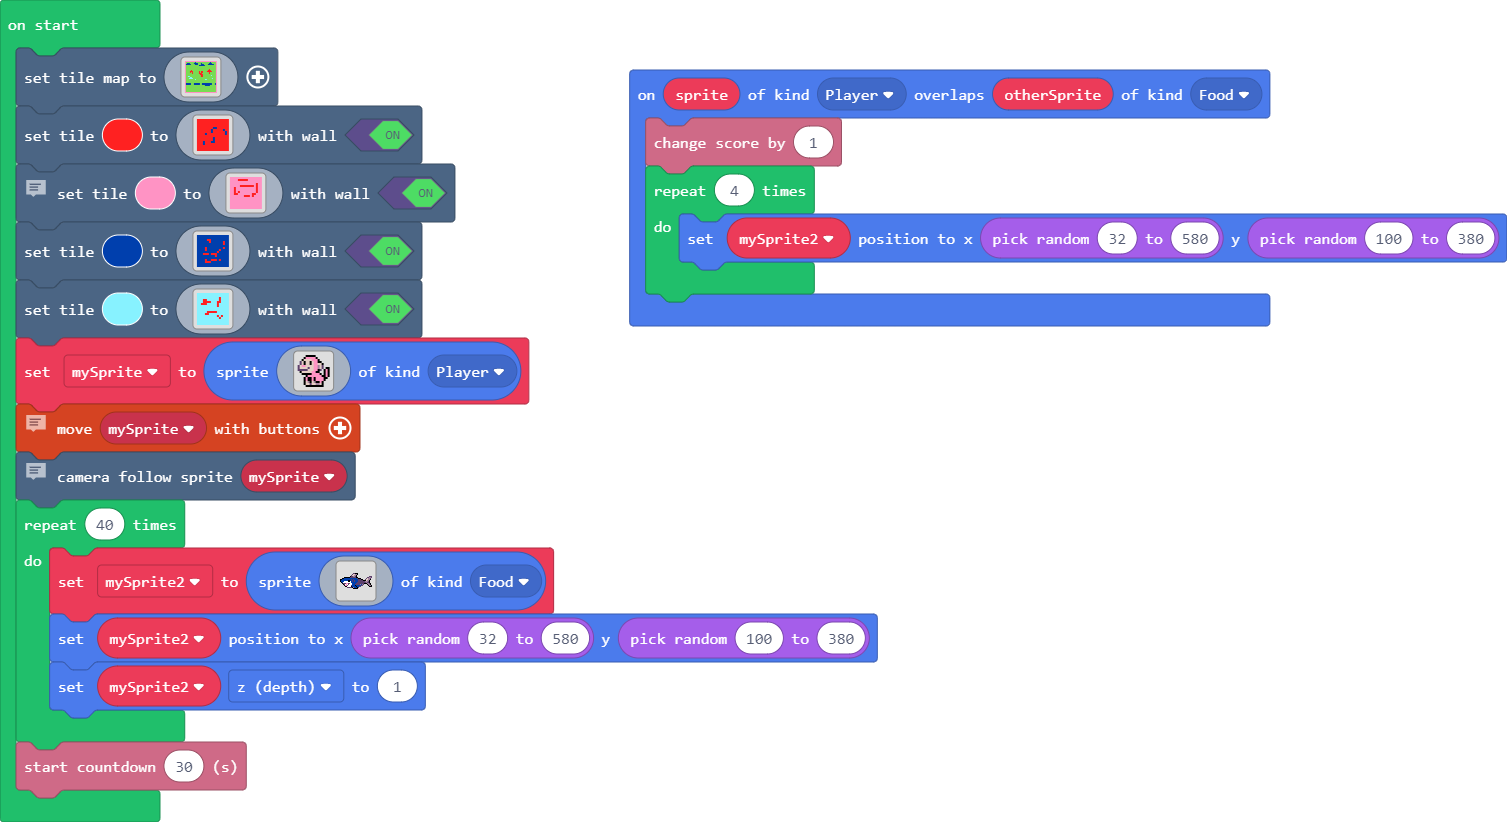
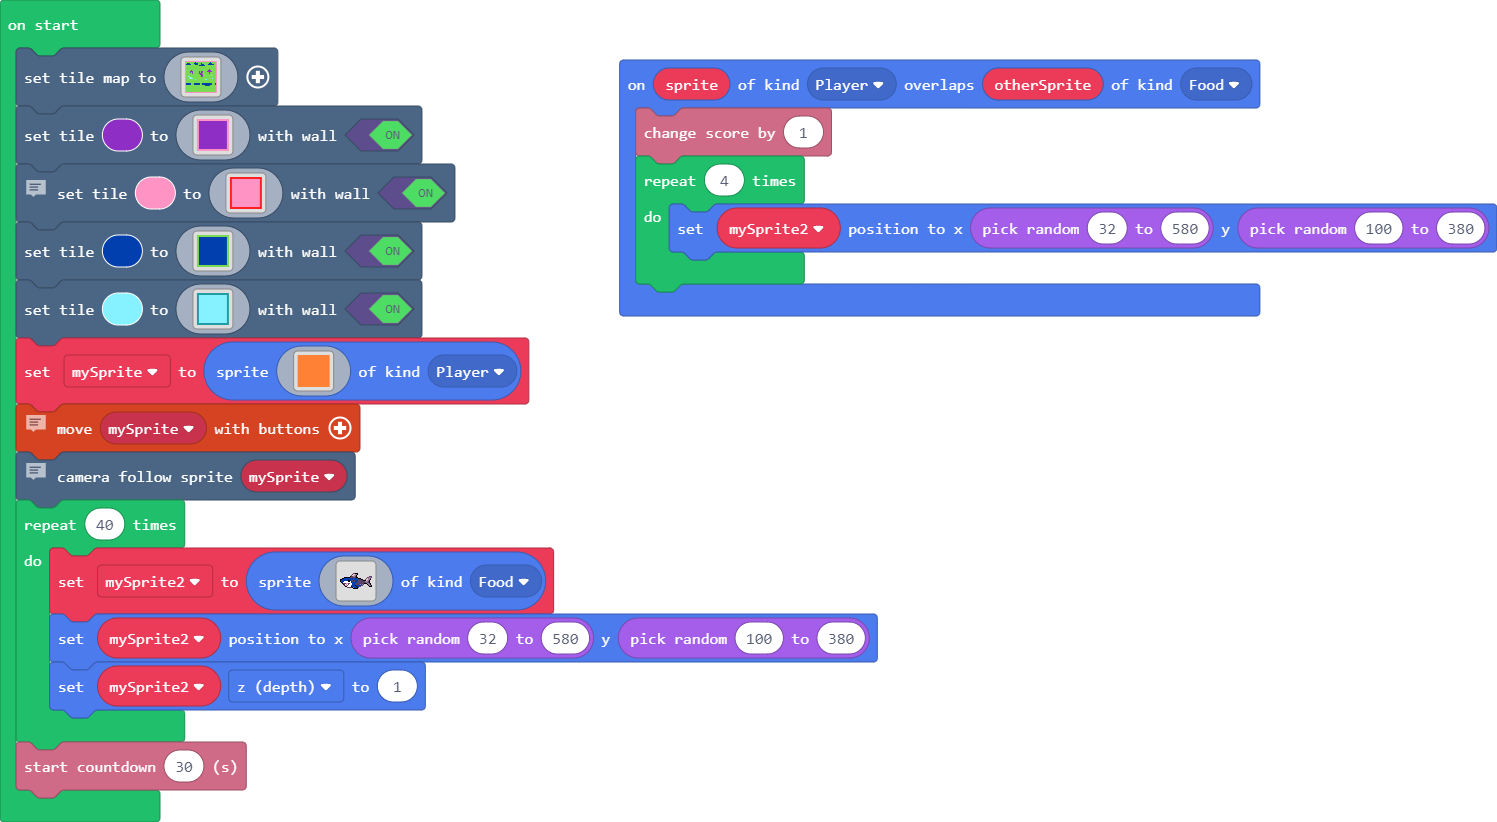
submit maze game

diff --git a/main.ts b/main.ts
@@ -14,14 +14,14 @@ scene.setTileMap(img`
 3 7 7 7 7 7 7 7 7 7 7 7 7 7 7 7 7 7 7 7 7 7 7 7 7 7 7 7 7 7 7 3 
 3 7 7 7 7 7 7 7 7 7 7 7 7 7 7 7 7 7 7 7 7 7 7 7 7 7 7 7 7 7 7 3 
 3 7 7 7 7 7 7 7 7 7 7 7 7 7 7 7 7 7 7 7 7 7 7 7 7 7 7 7 7 7 7 3 
-3 7 7 7 7 7 7 7 7 7 7 7 7 7 7 7 7 7 7 7 7 7 7 7 2 7 7 7 7 7 7 3 
-3 7 7 7 7 7 2 7 7 7 7 7 7 7 7 7 7 7 7 7 7 7 7 2 2 2 7 7 7 7 7 3 
-3 7 7 7 7 2 2 2 7 7 7 7 7 7 2 7 2 2 7 7 7 7 2 2 2 2 2 7 7 7 7 3 
-3 7 7 7 7 2 7 2 7 7 7 7 7 7 2 7 2 2 7 7 7 7 7 7 2 7 7 7 7 7 7 3 
-3 7 7 7 7 7 7 2 7 7 7 7 7 7 2 2 2 7 7 7 7 7 7 7 2 7 7 7 7 7 7 3 
-3 7 7 7 7 7 7 7 7 7 7 7 7 7 7 2 2 2 7 7 7 7 7 7 7 7 7 7 7 7 7 3 
-3 7 7 7 7 7 7 7 7 7 7 7 7 7 7 7 2 2 7 7 7 7 7 7 7 7 9 7 7 7 7 3 
-3 7 7 9 9 7 7 7 7 7 7 7 7 7 7 7 2 2 7 7 7 7 7 7 7 7 7 7 7 7 7 3 
+3 7 7 7 7 7 7 7 7 7 7 7 7 7 7 7 7 7 7 7 7 7 7 7 a 7 7 7 7 7 7 3 
+3 7 7 7 7 7 a 7 7 7 7 7 7 7 7 7 7 7 7 7 7 7 7 a a a 7 7 7 7 7 3 
+3 7 7 7 7 a a a 7 7 7 7 7 7 a 7 a a 7 7 7 7 a a a a a 7 7 7 7 3 
+3 7 7 7 7 a 7 a 7 7 7 7 7 7 a 7 a a 7 7 7 7 7 7 a 7 7 7 7 7 7 3 
+3 7 7 7 7 7 7 a 7 7 7 7 7 7 a a a 7 7 7 7 7 7 7 a 7 7 7 7 7 7 3 
+3 7 7 7 7 7 7 7 7 7 7 7 7 7 7 a a a 7 7 7 7 7 7 7 7 7 7 7 7 7 3 
+3 7 7 7 7 7 7 7 7 7 7 7 7 7 7 7 a a 7 7 7 7 7 7 7 7 9 7 7 7 7 3 
+3 7 7 9 9 7 7 7 7 7 7 7 7 7 7 7 a a 7 7 7 7 7 7 7 7 7 7 7 7 7 3 
 3 7 7 7 7 9 9 7 7 7 7 7 7 7 7 7 7 7 7 7 7 7 7 7 7 7 7 7 7 7 7 3 
 3 7 7 7 9 9 9 9 7 7 7 7 7 7 7 7 7 7 7 7 7 7 7 7 7 7 7 9 7 7 7 3 
 3 7 7 7 7 7 7 7 7 7 9 7 7 7 7 7 7 7 7 7 9 9 7 7 7 7 7 7 7 7 7 3 
@@ -39,96 +39,96 @@ scene.setTileMap(img`
 3 7 7 7 7 7 7 7 7 7 7 7 7 7 7 7 7 7 7 7 7 7 7 7 7 7 7 7 7 7 7 3 
 3 3 3 3 3 3 3 3 3 3 3 3 3 3 3 3 3 3 3 3 3 3 3 3 3 3 3 3 3 3 3 3 
 `)
-scene.setTile(2, img`
-2 2 2 2 2 2 2 2 2 2 2 2 2 2 2 2 
-2 2 2 2 2 2 2 2 2 2 2 2 2 2 2 2 
-2 2 2 2 2 2 2 2 2 2 2 2 2 2 2 2 
-2 2 2 2 2 2 2 2 2 2 2 2 2 2 2 2 
-2 2 2 2 2 2 2 2 8 8 2 2 2 2 2 2 
-2 2 2 2 2 2 2 8 2 2 2 2 2 8 2 2 
-2 2 2 2 2 2 2 8 2 2 2 2 2 2 8 2 
-2 2 2 2 8 2 2 2 2 2 2 2 2 2 8 2 
-2 2 2 2 2 2 2 2 2 2 2 2 2 2 2 2 
-2 2 2 2 2 2 2 2 8 2 2 2 2 2 2 2 
-2 2 2 2 2 2 2 2 8 2 2 2 2 2 2 2 
-2 2 2 8 2 2 2 8 8 2 2 2 2 2 2 2 
-2 2 2 8 2 2 2 2 2 2 2 2 2 2 2 2 
-2 2 2 2 2 2 2 2 2 2 2 2 2 2 2 2 
-2 2 2 2 2 2 2 2 2 2 2 2 2 2 2 2 
-2 2 2 2 2 2 2 2 2 2 2 2 2 2 2 2 
+scene.setTile(10, img`
+3 3 3 3 3 3 3 3 3 3 3 3 3 3 3 3 
+3 a a a a a a a a a a a a a a 3 
+3 a a a a a a a a a a a a a a 3 
+3 a a a a a a a a a a a a a a 3 
+3 a a a a a a a a a a a a a a 3 
+3 a a a a a a a a a a a a a a 3 
+3 a a a a a a a a a a a a a a 3 
+3 a a a a a a a a a a a a a a 3 
+3 a a a a a a a a a a a a a a 3 
+3 a a a a a a a a a a a a a a 3 
+3 a a a a a a a a a a a a a a 3 
+3 a a a a a a a a a a a a a a 3 
+3 a a a a a a a a a a a a a a 3 
+3 a a a a a a a a a a a a a a 3 
+3 a a a a a a a a a a a a a a 3 
+3 3 3 3 3 3 3 3 3 3 3 3 3 3 3 3 
 `, true)
 // for player to not move through wall
 scene.setTile(3, img`
-3 3 3 3 3 3 3 3 3 3 3 3 3 3 3 3 
-3 3 3 3 2 2 2 2 2 3 3 3 3 3 3 3 
-3 3 3 3 3 3 3 3 3 3 3 3 3 3 3 3 
-3 3 3 3 3 3 3 3 3 3 3 3 3 2 3 3 
-3 3 3 3 3 2 2 2 2 2 2 2 3 2 3 3 
-3 3 2 3 3 3 3 3 3 3 3 3 3 2 3 3 
-3 3 2 3 3 3 3 3 3 3 3 3 3 2 3 3 
-3 3 2 3 2 3 3 3 3 3 3 3 3 2 3 3 
-3 3 2 2 3 3 3 3 3 3 3 2 2 3 3 3 
-3 3 3 3 3 3 3 2 2 2 3 2 3 3 3 3 
-3 3 3 3 3 3 3 3 3 3 3 3 3 3 3 3 
-3 3 3 3 3 3 3 3 3 3 3 3 3 3 3 3 
-3 3 3 3 3 3 3 3 3 3 3 3 3 3 3 3 
-3 3 3 3 3 3 3 3 3 3 3 3 3 3 3 3 
-3 3 3 3 3 3 3 3 3 3 3 3 3 3 3 3 
-3 3 3 3 3 3 3 3 3 3 3 3 3 3 3 3 
+2 2 2 2 2 2 2 2 2 2 2 2 2 2 2 2 
+2 3 3 3 3 3 3 3 3 3 3 3 3 3 3 2 
+2 3 3 3 3 3 3 3 3 3 3 3 3 3 3 2 
+2 3 3 3 3 3 3 3 3 3 3 3 3 3 3 2 
+2 3 3 3 3 3 3 3 3 3 3 3 3 3 3 2 
+2 3 3 3 3 3 3 3 3 3 3 3 3 3 3 2 
+2 3 3 3 3 3 3 3 3 3 3 3 3 3 3 2 
+2 3 3 3 3 3 3 3 3 3 3 3 3 3 3 2 
+2 3 3 3 3 3 3 3 3 3 3 3 3 3 3 2 
+2 3 3 3 3 3 3 3 3 3 3 3 3 3 3 2 
+2 3 3 3 3 3 3 3 3 3 3 3 3 3 3 2 
+2 3 3 3 3 3 3 3 3 3 3 3 3 3 3 2 
+2 3 3 3 3 3 3 3 3 3 3 3 3 3 3 2 
+2 3 3 3 3 3 3 3 3 3 3 3 3 3 3 2 
+2 3 3 3 3 3 3 3 3 3 3 3 3 3 3 2 
+2 2 2 2 2 2 2 2 2 2 2 2 2 2 2 2 
 `, true)
 scene.setTile(8, img`
-8 8 8 8 8 8 8 8 8 8 8 8 8 8 8 8 
-8 8 8 8 8 8 8 8 8 8 8 8 8 8 8 8 
-8 8 8 8 8 2 2 8 8 8 8 8 8 8 8 8 
-8 8 8 8 8 8 2 8 8 8 8 8 8 2 8 8 
-8 8 8 8 8 8 8 8 8 8 8 8 8 2 8 8 
-8 8 8 8 8 8 8 8 8 8 8 8 8 8 8 8 
-8 8 8 8 2 8 8 8 8 8 8 8 8 2 8 8 
-8 8 8 8 2 8 8 8 8 8 8 2 8 8 8 8 
-8 8 8 8 8 8 8 8 8 8 2 8 8 8 8 8 
-8 8 8 2 2 2 8 2 2 2 8 8 8 8 8 8 
-8 8 8 8 8 8 8 8 8 2 8 8 8 8 8 8 
-8 8 8 8 8 8 8 8 8 8 8 8 8 8 8 8 
-8 8 8 8 2 8 8 2 2 2 8 2 8 8 8 8 
-8 8 8 8 2 2 2 8 8 8 8 8 8 8 8 8 
-8 8 8 8 8 8 8 8 8 8 8 8 8 8 8 8 
-8 8 8 8 8 8 8 8 8 8 8 8 8 8 8 8 
+7 7 7 7 7 7 7 7 7 7 7 7 7 7 7 7 
+7 8 8 8 8 8 8 8 8 8 8 8 8 8 8 7 
+7 8 8 8 8 8 8 8 8 8 8 8 8 8 8 7 
+7 8 8 8 8 8 8 8 8 8 8 8 8 8 8 7 
+7 8 8 8 8 8 8 8 8 8 8 8 8 8 8 7 
+7 8 8 8 8 8 8 8 8 8 8 8 8 8 8 7 
+7 8 8 8 8 8 8 8 8 8 8 8 8 8 8 7 
+7 8 8 8 8 8 8 8 8 8 8 8 8 8 8 7 
+7 8 8 8 8 8 8 8 8 8 8 8 8 8 8 7 
+7 8 8 8 8 8 8 8 8 8 8 8 8 8 8 7 
+7 8 8 8 8 8 8 8 8 8 8 8 8 8 8 7 
+7 8 8 8 8 8 8 8 8 8 8 8 8 8 8 7 
+7 8 8 8 8 8 8 8 8 8 8 8 8 8 8 7 
+7 8 8 8 8 8 8 8 8 8 8 8 8 8 8 7 
+7 8 8 8 8 8 8 8 8 8 8 8 8 8 8 7 
+7 7 7 7 7 7 7 7 7 7 7 7 7 7 7 7 
 `, true)
 scene.setTile(9, img`
-9 9 9 9 9 9 9 9 9 9 9 9 9 9 9 9 
-9 9 9 9 9 9 9 9 9 9 9 9 9 9 9 9 
-9 9 9 9 9 9 9 9 9 9 9 2 9 9 9 9 
-9 9 9 2 2 9 9 9 9 9 9 2 9 9 9 9 
-9 9 9 2 2 2 2 9 9 9 2 2 9 9 9 9 
-9 9 2 2 2 9 9 9 9 9 2 9 9 9 9 9 
-9 9 9 9 9 9 9 9 9 9 2 9 9 9 9 9 
-9 9 9 9 9 9 9 9 9 9 9 9 9 9 9 9 
-9 9 9 9 9 9 9 9 9 9 9 9 9 9 9 9 
-9 9 9 9 9 2 2 2 2 2 9 9 9 9 9 9 
-9 9 9 9 2 2 9 9 9 9 9 9 9 9 9 9 
-9 9 9 9 9 9 9 9 9 9 2 9 2 9 9 9 
-9 9 9 9 9 9 9 9 9 9 9 2 9 9 9 9 
-9 9 9 9 9 9 9 9 9 9 9 9 9 9 9 9 
-9 9 9 9 9 9 9 9 9 9 9 9 9 9 9 9 
-9 9 9 9 9 9 9 9 9 9 9 9 9 9 9 9 
+6 6 6 6 6 6 6 6 6 6 6 6 6 6 6 6 
+6 9 9 9 9 9 9 9 9 9 9 9 9 9 9 6 
+6 9 9 9 9 9 9 9 9 9 9 9 9 9 9 6 
+6 9 9 9 9 9 9 9 9 9 9 9 9 9 9 6 
+6 9 9 9 9 9 9 9 9 9 9 9 9 9 9 6 
+6 9 9 9 9 9 9 9 9 9 9 9 9 9 9 6 
+6 9 9 9 9 9 9 9 9 9 9 9 9 9 9 6 
+6 9 9 9 9 9 9 9 9 9 9 9 9 9 9 6 
+6 9 9 9 9 9 9 9 9 9 9 9 9 9 9 6 
+6 9 9 9 9 9 9 9 9 9 9 9 9 9 9 6 
+6 9 9 9 9 9 9 9 9 9 9 9 9 9 9 6 
+6 9 9 9 9 9 9 9 9 9 9 9 9 9 9 6 
+6 9 9 9 9 9 9 9 9 9 9 9 9 9 9 6 
+6 9 9 9 9 9 9 9 9 9 9 9 9 9 9 6 
+6 9 9 9 9 9 9 9 9 9 9 9 9 9 9 6 
+6 6 6 6 6 6 6 6 6 6 6 6 6 6 6 6 
 `, true)
 let mySprite = sprites.create(img`
-. . . . f f f f f . . . . . . . 
-. . . f 3 3 3 3 3 f . . . . . . 
-. . f d d d d 3 3 3 f . . . . . 
-. c d f d d f d 3 3 f f . . . . 
-. c d f d d f d 3 3 d d f . . . 
-c d 3 3 d d d d 3 3 b d c . . . 
-c d d d d c d d 3 3 b d c . f f 
-c c c c c d d d 3 3 f c . f 3 f 
-. f d d d d d 3 3 f f . . f 3 f 
-. . f f f f f 3 3 3 3 f . f 3 f 
-. . . . f 3 3 3 3 3 3 3 f f 3 f 
-. . . f 3 f f 3 f 3 3 3 3 f f . 
-. . . f 3 f f 3 f 3 3 3 3 f . . 
-. . . f d b f d b f f 3 f . . . 
-. . . f d d c d d b b d f . . . 
-. . . . f f f f f f f f f . . . 
+4 4 4 4 4 4 4 4 4 4 4 4 4 4 4 4 
+4 4 4 4 4 4 4 4 4 4 4 4 4 4 4 4 
+4 4 4 4 4 4 4 4 4 4 4 4 4 4 4 4 
+4 4 4 4 4 4 4 4 4 4 4 4 4 4 4 4 
+4 4 4 4 4 4 4 4 4 4 4 4 4 4 4 4 
+4 4 4 4 4 4 4 4 4 4 4 4 4 4 4 4 
+4 4 4 4 4 4 4 4 4 4 4 4 4 4 4 4 
+4 4 4 4 4 4 4 4 4 4 4 4 4 4 4 4 
+4 4 4 4 4 4 4 4 4 4 4 4 4 4 4 4 
+4 4 4 4 4 4 4 4 4 4 4 4 4 4 4 4 
+4 4 4 4 4 4 4 4 4 4 4 4 4 4 4 4 
+4 4 4 4 4 4 4 4 4 4 4 4 4 4 4 4 
+4 4 4 4 4 4 4 4 4 4 4 4 4 4 4 4 
+4 4 4 4 4 4 4 4 4 4 4 4 4 4 4 4 
+4 4 4 4 4 4 4 4 4 4 4 4 4 4 4 4 
+4 4 4 4 4 4 4 4 4 4 4 4 4 4 4 4 
 `, SpriteKind.Player)
 // controls sprite
 controller.moveSprite(mySprite)
